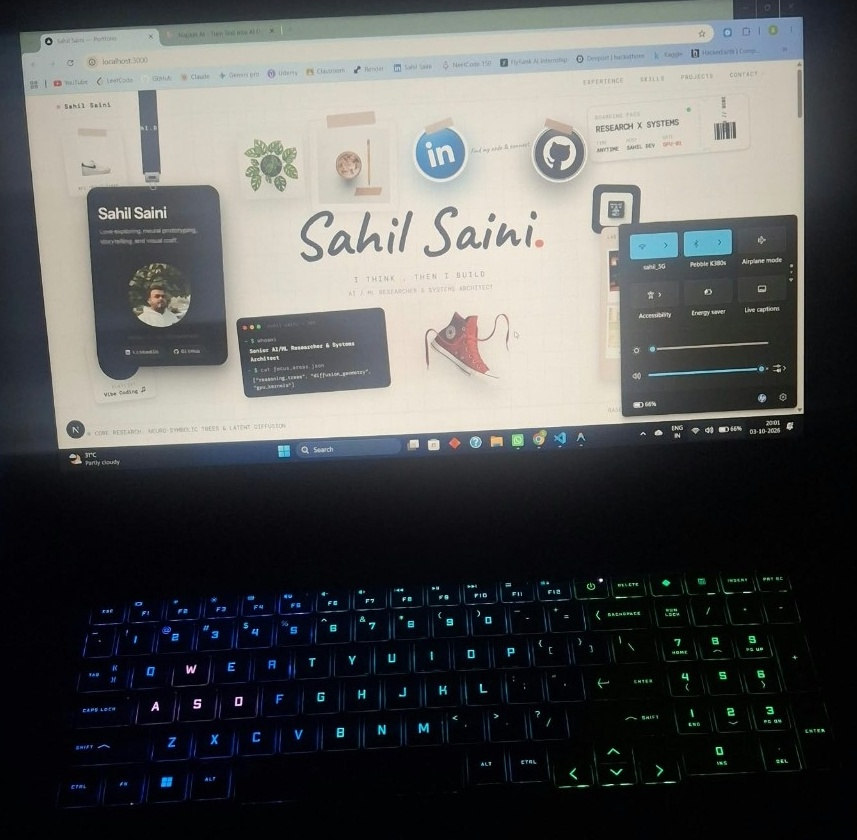
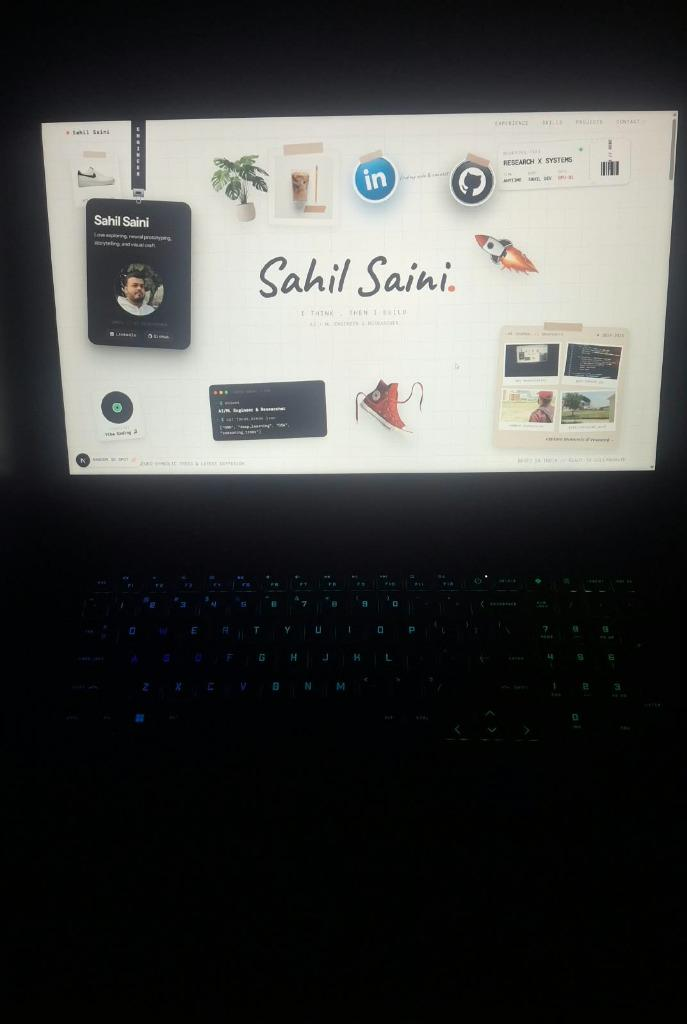
finishing done

diff --git a/frontend/components/hero/DeskCollageHero.tsx b/frontend/components/hero/DeskCollageHero.tsx
@@ -34,7 +34,7 @@ export default function DeskCollageHero({
 
       {/* 1. LANYARD & ID BADGE - Connected directly to the top edge with pendulum sway (Desktop) */}
       <div
-        className="hidden lg:block absolute -top-4 sm:-top-6 lg:-top-8 left-[3.5%] lg:left-[4%] xl:left-[4.5%] 2xl:left-[5%] z-35 pointer-events-auto select-none animate-lanyard-sway"
+        className="hidden lg:block absolute -top-4 sm:-top-6 lg:-top-8 left-[3.5%] lg:left-[4%] xl:left-[4.5%] 2xl:left-[5%] z-40 pointer-events-none select-none animate-lanyard-sway"
         style={{ transformOrigin: "50% 0px" }}
       >
         {/* Top ceiling clip mounting anchor */}
@@ -44,13 +44,17 @@ export default function DeskCollageHero({
         <div className="flex flex-col items-center mx-auto">
           {/* Long woven fabric strap extending from the top ceiling */}
           <div className="w-9 h-36 sm:h-40 xl:h-44 bg-[#18181B] shadow-md relative overflow-hidden flex items-center justify-center border-x border-zinc-800">
-            {/* Woven text running vertically along the strap matching YANLIU.DESIGN */}
-            <span
-              className="text-[0.62rem] font-mono tracking-[0.28em] text-zinc-300 rotate-90 whitespace-nowrap uppercase select-none font-semibold"
-              style={{ writingMode: "vertical-rl", transform: "rotate(180deg)" }}
+            {/* Woven text running vertically along the strap */}
+            <div
+              className="relative z-10 flex flex-col items-center justify-center font-mono text-[0.62rem] sm:text-[0.68rem] font-bold text-zinc-200 select-none leading-[1.28] sm:leading-[1.34] tracking-widest uppercase"
+              aria-label="ENGINEER"
             >
-              SAHILSAINI.DEV // AI
-            </span>
+              {"ENGINEER".split("").map((char, idx) => (
+                <span key={idx} className="block text-center drop-shadow-xs">
+                  {char}
+                </span>
+              ))}
+            </div>
             {/* Ribbed fabric weave texture */}
             <div className="absolute inset-0 bg-[repeating-linear-gradient(0deg,rgba(255,255,255,0.05)_0px,rgba(255,255,255,0.05)_2px,transparent_2px,transparent_4px)] pointer-events-none" />
           </div>
@@ -64,7 +68,7 @@ export default function DeskCollageHero({
         </div>
 
         {/* Badge Holder Card - Matching Yan Liu Reference Image */}
-        <div className="w-64 sm:w-[264px] bg-[#18181A] text-white rounded-[24px] shadow-[0_25px_55px_rgba(0,0,0,0.5),0_10px_20px_rgba(0,0,0,0.3)] border border-zinc-700/80 relative overflow-hidden -mt-2 transition-all duration-300 group hover:shadow-[0_30px_70px_rgba(0,0,0,0.6)]">
+        <div className="w-64 sm:w-[264px] bg-[#18181A] text-white rounded-[24px] shadow-[0_25px_55px_rgba(0,0,0,0.5),0_10px_20px_rgba(0,0,0,0.3)] border border-zinc-700/80 relative overflow-hidden -mt-2 transition-all duration-300 group hover:shadow-[0_30px_70px_rgba(0,0,0,0.6)] pointer-events-auto">
           {/* Cutout punch slot */}
           <div className="mx-auto w-12 h-2.5 rounded-full bg-zinc-950 border border-zinc-700/90 mt-2.5 shadow-inner" />
 
@@ -94,28 +98,21 @@ export default function DeskCollageHero({
 
           {/* Lower Section with Circular Cutout Photo */}
           <div className="p-4 bg-[#141416]/90 flex flex-col items-center">
-            {/* Circular Cutout Photo with cartoon switch on image hover only */}
+            {/* Circular Cutout Photo */}
             <div
-              className="group/avatar relative size-32 rounded-full border-2 border-zinc-700/80 ring-4 ring-black/50 shadow-2xl overflow-hidden bg-zinc-900 my-1 cursor-pointer select-none"
+              className="group relative size-32 rounded-full border-2 border-zinc-700/80 ring-4 ring-black/50 shadow-2xl overflow-hidden bg-zinc-900 my-1 select-none"
             >
-              {/* Real photo (base layer) */}
               <Image
-                src="/sahil/sahil-portrait.jpg"
+                src="/sahil/sahil-photo.jpg"
                 alt="Sahil Saini"
                 fill
-                className="object-cover object-top transition-opacity duration-300 ease-out group-hover/avatar:opacity-0"
+                className="object-cover object-[50%_28%] scale-100 transition-transform duration-500 ease-out group-hover:scale-105"
                 sizes="128px"
                 priority
               />
-              {/* Cartoon illustrated photo (shows only when hovering directly on the image) */}
-              <Image
-                src="/sahil/sahil-cartoon.jpg"
-                alt="Sahil Saini Cartoon"
-                fill
-                className="object-cover object-top opacity-0 transition-all duration-300 ease-out group-hover/avatar:opacity-100 group-hover/avatar:scale-105"
-                sizes="128px"
+              <div
+                className="absolute inset-0 rounded-full ring-2 ring-transparent transition-all duration-300 pointer-events-none group-hover:ring-[#FF4A3D]/40"
               />
-              <div className="absolute inset-0 rounded-full ring-2 ring-transparent group-hover/avatar:ring-[#FF4A3D]/40 transition-all duration-300 pointer-events-none" />
             </div>
 
             {/* Minimalist ID tag */}
@@ -151,18 +148,18 @@ export default function DeskCollageHero({
       </div>
 
       {/* Main Container */}
-      <div className="relative z-10 w-full h-full px-2 sm:px-4 lg:px-6 pt-1 pb-2 flex flex-col justify-between flex-1">
+      <div className="relative w-full h-full px-2 sm:px-4 lg:px-6 pt-1 pb-2 flex flex-col justify-between flex-1">
         {/* Unified Top Header Bar matching the below design & color */}
-        <div className="flex items-center justify-between text-xs font-mono tracking-widest uppercase text-zinc-600 border-b border-zinc-200/80 pb-3 relative z-40">
+        <div className="flex items-center justify-between text-xs font-mono tracking-widest uppercase text-zinc-600 border-b border-zinc-200/80 pb-3 relative z-30">
           {/* Left: ● SAHIL SAINI (with replay click) */}
           <button
             type="button"
             onClick={onReplay}
-            className="group flex items-center gap-2 cursor-pointer select-none text-left focus-visible:outline-none"
+            className="group relative z-50 flex items-center gap-2 cursor-pointer select-none text-left focus-visible:outline-none py-1 -my-1 pr-3"
             aria-label="Replay intro animation"
           >
             <span className="size-2 rounded-full bg-[#FF4A3D] animate-pulse" />
-            <span className="font-bold text-zinc-950 group-hover:text-[#FF4A3D] transition-colors">
+            <span className="font-bold text-zinc-950 group-hover:text-[#FF4A3D] transition-colors whitespace-nowrap">
               {fullName}
             </span>
             <span className="opacity-0 group-hover:opacity-100 transition-all duration-200 text-xs text-[#FF4A3D] ml-0.5">
@@ -171,7 +168,7 @@ export default function DeskCollageHero({
           </button>
 
           {/* Right: EXPERIENCE  SKILLS  PROJECTS  CONTACT ↗ */}
-          <div className="hidden sm:flex items-center gap-6 lg:gap-8 text-[0.72rem] font-mono tracking-widest uppercase">
+          <div className="hidden sm:flex items-center gap-6 lg:gap-8 text-[0.72rem] font-mono tracking-widest uppercase relative z-50">
             <button
               type="button"
               onClick={() => scrollTo("experience")}
@@ -352,8 +349,8 @@ export default function DeskCollageHero({
               <span className="text-[#FF4A3D]">,</span>
               <span>THEN I BUILD</span>
             </div>
-            <p className="mt-2 text-xs font-mono text-zinc-400 tracking-wider">
-              AI / ML RESEARCHER & SYSTEMS ARCHITECT
+            <p className="mt-2 text-xs font-mono text-zinc-400 tracking-wider uppercase">
+              AI / ML Engineer & Researcher
             </p>
           </div>
 
@@ -624,13 +621,13 @@ export default function DeskCollageHero({
                   <span className="text-emerald-400">~ $</span> whoami
                 </div>
                 <div className="text-white font-medium pl-2">
-                  Senior AI/ML Researcher & Systems Architect
+                  AI/ML Engineer & Researcher
                 </div>
                 <div className="text-zinc-400 pt-0.5">
                   <span className="text-emerald-400">~ $</span> cat focus_areas.json
                 </div>
-                <div className="text-zinc-300 pl-2 text-[0.62rem] text-[#FF4A3D]">
-                  [&quot;reasoning_trees&quot;, &quot;diffusion_geometry&quot;, &quot;gpu_kernels&quot;]
+                <div className="text-zinc-300 pl-2 text-[0.62rem] text-[#FF4A3D] break-words">
+                  [&quot;GNN&quot;, &quot;deep_learning&quot;, &quot;DSA&quot;, &quot;reasoning_trees&quot;]
                 </div>
               </div>
             </div>
@@ -691,7 +688,7 @@ export default function DeskCollageHero({
                 <div className="bg-white p-1 pb-1.5 rounded-xs shadow-xs border border-stone-200 rotate-[-2deg] transition-transform hover:scale-105">
                   <div className="relative w-full h-18 sm:h-20 rounded-2xs overflow-hidden bg-black">
                     <Image
-                      src="/hero-collage/sahil-laptop-crisp.jpg"
+                      src="/hero-collage/sahil-laptop-balanced.jpg"
                       alt="Sahil Saini dev workstation laptop"
                       fill
                       className="object-contain object-center"
@@ -770,7 +767,7 @@ export default function DeskCollageHero({
         <div className="border-t border-zinc-200/80 pt-2 pb-1 flex flex-col sm:flex-row items-center justify-between text-[0.68rem] sm:text-xs font-mono text-zinc-500 gap-2">
           <div className="flex items-center gap-2">
             <span className="size-2 rounded-full bg-emerald-500 animate-pulse" />
-            <span>CORE RESEARCH: NEURO-SYMBOLIC TREES & LATENT DIFFUSION</span>
+            <span>CORE RESEARCH: GRAPH NEURAL NETWORKS & GEOMETRIC DEEP LEARNING</span>
           </div>
           <div className="flex items-center gap-2">
             <span className="text-zinc-400">BASED IN INDIA // READY TO COLLABORATE</span>

diff --git a/frontend/components/about/AboutEditorial.tsx b/frontend/components/about/AboutEditorial.tsx
@@ -8,9 +8,20 @@ export default function AboutEditorial() {
     <section
       id="about"
       aria-label="About Sahil Saini"
-      className="relative w-full py-4 sm:py-6 md:py-8 my-1 flex items-center justify-center select-none overflow-visible"
+      className="relative w-full py-6 sm:py-8 md:py-10 my-1 flex items-center justify-center select-none overflow-visible"
     >
-      {/* Interactive 3D Hotspot Right: Deformed Wave Grid (matching Image 3) */}
+      {/* Interactive 3D Hotspot Left: User marked position */}
+      <div className="hidden lg:block absolute left-[2%] top-[34%] -translate-y-1/2 z-20 pointer-events-auto">
+        <InteractiveHotspot
+          id="about-left-spot"
+          shape="torus"
+          label="3D.01 // TORUS"
+          activeIcon="circle-square"
+          popupSide="right"
+        />
+      </div>
+
+      {/* Interactive 3D Hotspot Right: Deformed Wave Grid */}
       <div className="hidden lg:block absolute right-[2%] top-1/2 -translate-y-1/2 z-20 pointer-events-auto">
         <InteractiveHotspot
           id="about-wave"
@@ -20,111 +31,79 @@ export default function AboutEditorial() {
           popupSide="left"
         />
       </div>
+
       {/* Centered Editorial Monospace Statement */}
       <div className="max-w-4xl mx-auto px-4 text-center">
         {/* Editorial Statement Lines */}
         <motion.div
-          initial={{ opacity: 0, y: 12 }}
-          whileInView={{ opacity: 1, y: 0 }}
-          viewport={{ once: true }}
-          transition={{ duration: 0.6 }}
-          className="font-mono text-zinc-850 text-base sm:text-lg md:text-xl lg:text-[1.38rem] leading-[2.2] sm:leading-[2.3] md:leading-[2.4] tracking-normal text-zinc-900"
+          className="font-mono text-zinc-900 text-sm sm:text-base md:text-lg lg:text-[1.25rem] leading-[2.1] sm:leading-[2.2] md:leading-[2.3] tracking-normal"
         >
-          {/* Line 1: I turn ambiguity [scribble] into clear systems & product direction and */}
+          {/* Line 1 */}
           <div className="flex flex-wrap items-center justify-center gap-x-2">
-            <span>I turn ambiguity</span>
-
-            {/* Hand-Drawn Scribble / Tangle Doodle */}
-            <span className="inline-flex items-center justify-center group cursor-pointer" title="Chaos into clarity">
-              <svg
-                width="28"
-                height="28"
-                viewBox="0 0 32 32"
-                fill="none"
-                stroke="currentColor"
-                strokeWidth="1.9"
-                strokeLinecap="round"
-                strokeLinejoin="round"
-                className="size-6 sm:size-7 text-zinc-900 group-hover:rotate-12 transition-transform duration-300"
-                aria-hidden="true"
-              >
-                <path d="M14 6c-4 1-6 4-5 8 1 5 6 6 9 4 3-2 3-6 1-8-3-2-8 0-9 4-2 6 2 11 7 12 5 1 9-2 9-6 0-3-3-5-6-4-3 1-4 4-2 6 2 2 5 1 6-1" />
-                <path d="M16 19c0 3-1 6-1 8" />
-              </svg>
-            </span>
-
-            <span>into clear systems &amp; product direction and</span>
+            <span>I teach computers to think a little</span>
           </div>
 
-          {/* Line 2: ship with cross-functional teams [burst] [ at speed. ] */}
-          <div className="flex flex-wrap items-center justify-center gap-x-2 mt-1 sm:mt-2">
-            <span>ship with cross-functional teams</span>
-
-            {/* Boxed [ at speed. ] with action burst lines above */}
-            <span className="relative inline-flex flex-col items-center group">
-              {/* Radiating Action Burst Lines \ | / */}
-              <span className="absolute -top-3.5 left-1/2 -translate-x-1/2 pointer-events-none group-hover:-translate-y-0.5 transition-transform duration-200">
-                <svg
-                  width="18"
-                  height="10"
-                  viewBox="0 0 18 10"
-                  fill="none"
-                  stroke="currentColor"
-                  strokeWidth="1.9"
-                  strokeLinecap="round"
-                  className="text-zinc-900"
-                  aria-hidden="true"
-                >
-                  <line x1="2" y1="8" x2="5" y2="2" />
-                  <line x1="9" y1="8" x2="9" y2="1" />
-                  <line x1="16" y1="8" x2="13" y2="2" />
-                </svg>
-              </span>
-
-              {/* Boxed text badge */}
-              <span className="px-2.5 py-0.5 border border-zinc-800 rounded-sm bg-white/70 shadow-2xs text-zinc-950 font-semibold group-hover:border-[#FF4A3D] group-hover:text-[#FF4A3D] transition-colors duration-200">
-                at speed.
-              </span>
-            </span>
+          {/* Line 2 */}
+          <div className="flex flex-wrap items-center justify-center gap-x-2 mt-1 sm:mt-1.5">
+            <span>and ask better questions than I do.</span>
           </div>
 
-          {/* Line 3: ✦ [ I build with AI, ] (dot) prototyping ideas and exploring */}
-          <div className="flex flex-wrap items-center justify-center gap-x-2 mt-3 sm:mt-4">
-            {/* Sparkle Four-Point Star Doodle */}
+          {/* Line 3: [sparkle] [ I build with AI, ] (with pin dot on bottom) one experiment at a time, */}
+          <div className="flex flex-wrap items-center justify-center gap-x-2 mt-2 sm:mt-2.5">
+            {/* Sparkle Four-Point Star */}
             <span className="inline-flex items-center group cursor-pointer" title="Spark of craft">
               <svg
-                width="22"
-                height="22"
+                width="20"
+                height="20"
                 viewBox="0 0 24 24"
                 fill="none"
                 stroke="currentColor"
                 strokeWidth="1.8"
                 strokeLinecap="round"
                 strokeLinejoin="round"
-                className="size-5 sm:size-5.5 text-zinc-900 group-hover:scale-125 group-hover:rotate-45 transition-transform duration-300"
+                className="size-4.5 sm:size-5 text-zinc-900 group-hover:scale-125 group-hover:rotate-45 transition-transform duration-300 mr-0.5"
                 aria-hidden="true"
               >
                 <path d="M12 2C12 7.5 16.5 12 22 12C16.5 12 12 16.5 12 22C12 16.5 7.5 12 2 12C7.5 12 12 7.5 12 2Z" />
-                <path d="M4 4h2m-1-1v2" strokeWidth="1.5" />
               </svg>
             </span>
 
-            {/* Boxed [ I build with AI, ] with tactile black dot pin sticker */}
-            <span className="relative inline-flex items-center px-3 py-0.5 border border-zinc-800 rounded-sm bg-white/80 shadow-2xs text-zinc-950 font-semibold mr-1 group cursor-pointer hover:border-zinc-950">
+            {/* Boxed [ I build with AI, ] with bottom anchor dot pin */}
+            <span className="relative inline-flex items-center px-3 py-0.5 border border-zinc-800 rounded-sm bg-white/80 shadow-2xs text-zinc-950 font-semibold mx-1 group cursor-pointer hover:border-zinc-950">
               <span>I build with AI,</span>
-              {/* Tactile Black Dot Sticker Pin overlapping bottom border */}
+              {/* Tactile Dot Pin overlapping bottom border */}
               <span
-                className="absolute -bottom-1.5 left-1/2 -translate-x-1/2 size-3 rounded-full bg-zinc-950 ring-2 ring-white shadow-xs group-hover:scale-125 transition-transform duration-200"
+                className="absolute -bottom-1.5 left-1/2 -translate-x-1/2 size-2.5 sm:size-3 rounded-full bg-zinc-950 ring-2 ring-white shadow-xs group-hover:scale-125 transition-transform duration-200"
                 title="Anchor pin"
               />
             </span>
 
-            <span>prototyping ideas and exploring</span>
+            <span>one experiment at a time,</span>
           </div>
 
-          {/* Line 4: the edge of intelligence, design, and technology. */}
-          <div className="flex flex-wrap items-center justify-center gap-x-2 mt-1 sm:mt-2">
-            <span>the edge of intelligence, design, and technology.</span>
+          {/* Line 4 */}
+          <div className="flex flex-wrap items-center justify-center gap-x-2 mt-2 sm:mt-2.5">
+            <span>turning half-formed ideas into models that learn,</span>
+          </div>
+
+          {/* Line 5 */}
+          <div className="flex flex-wrap items-center justify-center gap-x-2 mt-1 sm:mt-1.5">
+            <span>predict, and occasionally surprise me.</span>
+          </div>
+
+          {/* Line 6: [ I never stop tinkering, ] because the best part */}
+          <div className="flex flex-wrap items-center justify-center gap-x-2 mt-2.5 sm:mt-3">
+            {/* Boxed [ I never stop tinkering, ] */}
+            <span className="relative inline-flex items-center px-3 py-0.5 border border-zinc-800 rounded-sm bg-white/80 shadow-2xs text-zinc-950 font-semibold mr-1 group cursor-pointer hover:border-zinc-950">
+              <span>I never stop tinkering,</span>
+            </span>
+
+            <span>because the best part</span>
+          </div>
+
+          {/* Line 7 */}
+          <div className="flex flex-wrap items-center justify-center gap-x-2 mt-1 sm:mt-1.5">
+            <span>of machine learning is the moment something finally clicks.</span>
           </div>
         </motion.div>
       </div>

diff --git a/frontend/components/contact/ContactSection.tsx b/frontend/components/contact/ContactSection.tsx
@@ -17,7 +17,7 @@ export function ContactSection() {
 
   // Boiler email - easily editable by user
   const contactEmail = "2005sahilsaini@gmail.com";
-  const contactPhone = "+1 720-813-5491";
+  const contactPhone = "----";
   const contactLinkedin = "in/sahil-saini-a47b40324";
   const contactGithub = "@Sahil-Dev404";
 
@@ -109,9 +109,6 @@ export function ContactSection() {
       {/* Header Info */}
       <div className="relative z-10 flex items-start justify-between gap-4">
         <div>
-          <div className="text-xs font-mono tracking-widest text-[#FF4A3D] uppercase mb-2">
-            § 04
-          </div>
           <h2 className="text-3xl sm:text-4xl md:text-5xl font-black tracking-tight text-zinc-950 font-[var(--display)] uppercase">
             Contact
           </h2>

diff --git a/frontend/components/projects/ProjectsSection.tsx b/frontend/components/projects/ProjectsSection.tsx
@@ -64,7 +64,7 @@ export function ProjectsSection() {
             Selected Works &amp; Systems
           </h2>
           <p className="mt-2 text-sm sm:text-base text-zinc-600 max-w-xl leading-relaxed">
-            Explorations in mathematical reasoning models, high-dimensional latent diffusion geometry, and sub-millisecond inference acceleration.
+            A curated collection of production ML pipelines, predictive modeling architectures, and semantic information retrieval systems.
           </p>
         </div>
 

diff --git a/frontend/components/experience/ExperienceTimeline.tsx b/frontend/components/experience/ExperienceTimeline.tsx
@@ -109,9 +109,6 @@ export function ExperienceTimeline({
           <h2 className="text-2xl sm:text-3xl md:text-4xl font-bold tracking-tight text-zinc-950 font-[var(--display)]">
             Experience & Milestones
           </h2>
-          <p className="text-xs sm:text-sm text-zinc-500 max-w-xl">
-            Scroll to trace the timeline path through research labs and engineering roles.
-          </p>
         </div>
 
         {/* 3D Wireframe Hotspot */}

diff --git a/backend/app/config.py b/backend/app/config.py
@@ -4,6 +4,12 @@ from pydantic_settings import BaseSettings, SettingsConfigDict
 class Settings(BaseSettings):
     frontend_origin: str = "http://localhost:3000"
 
+    @property
+    def allowed_origins(self) -> list[str]:
+        if not self.frontend_origin or self.frontend_origin.strip() == "*":
+            return ["*"]
+        return [o.strip() for o in self.frontend_origin.split(",") if o.strip()]
+
     model_config = SettingsConfigDict(
         env_file=".env",
         env_file_encoding="utf-8",

diff --git a/backend/app/main.py b/backend/app/main.py
@@ -12,10 +12,11 @@ app = FastAPI(
     redoc_url="/redoc",
 )
 
-# CORS configuration allowing frontend origin from environment variables
+# CORS configuration allowing frontend origin from environment variables and Vercel deployments
 app.add_middleware(
     CORSMiddleware,
-    allow_origins=[settings.frontend_origin],
+    allow_origins=settings.allowed_origins,
+    allow_origin_regex=r"https://.*\.vercel\.app",
     allow_credentials=True,
     allow_methods=["*"],
     allow_headers=["*"],
